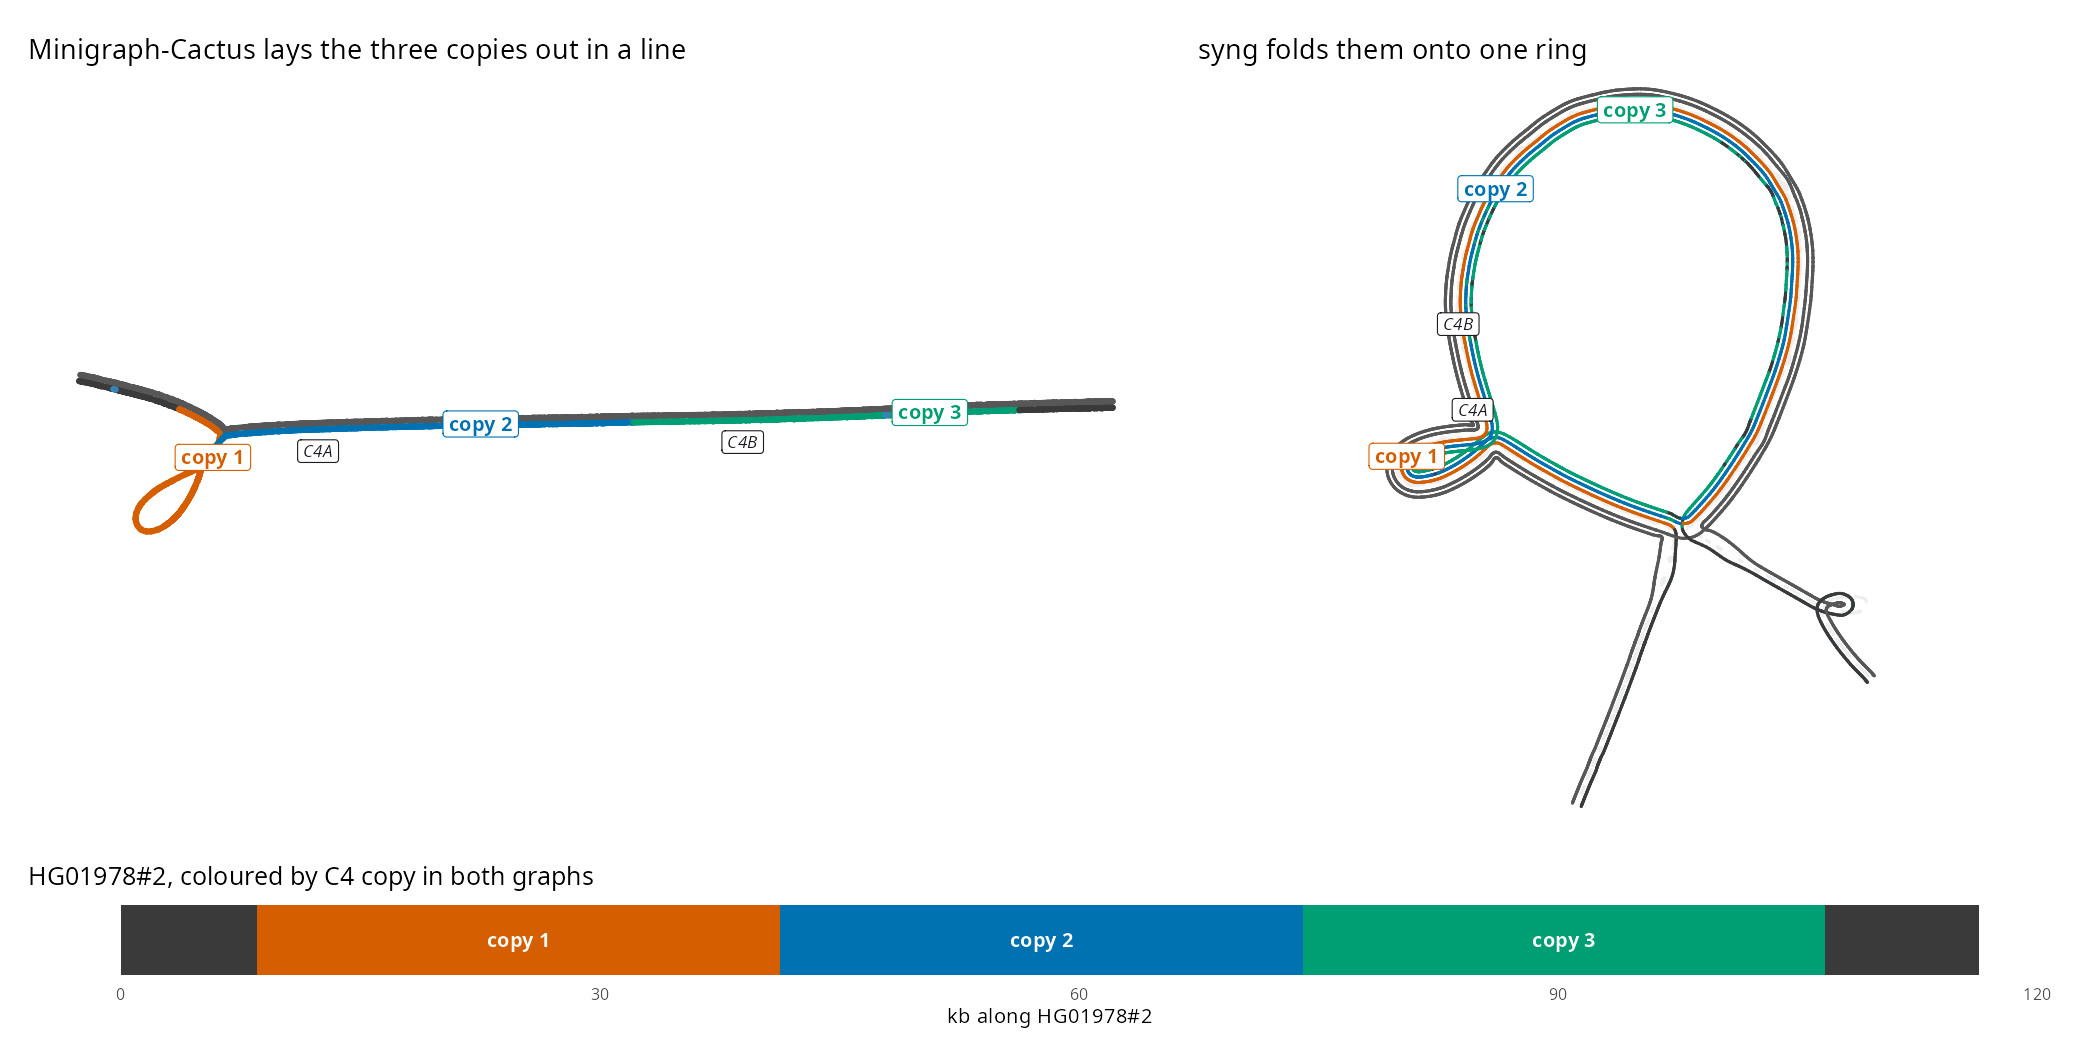
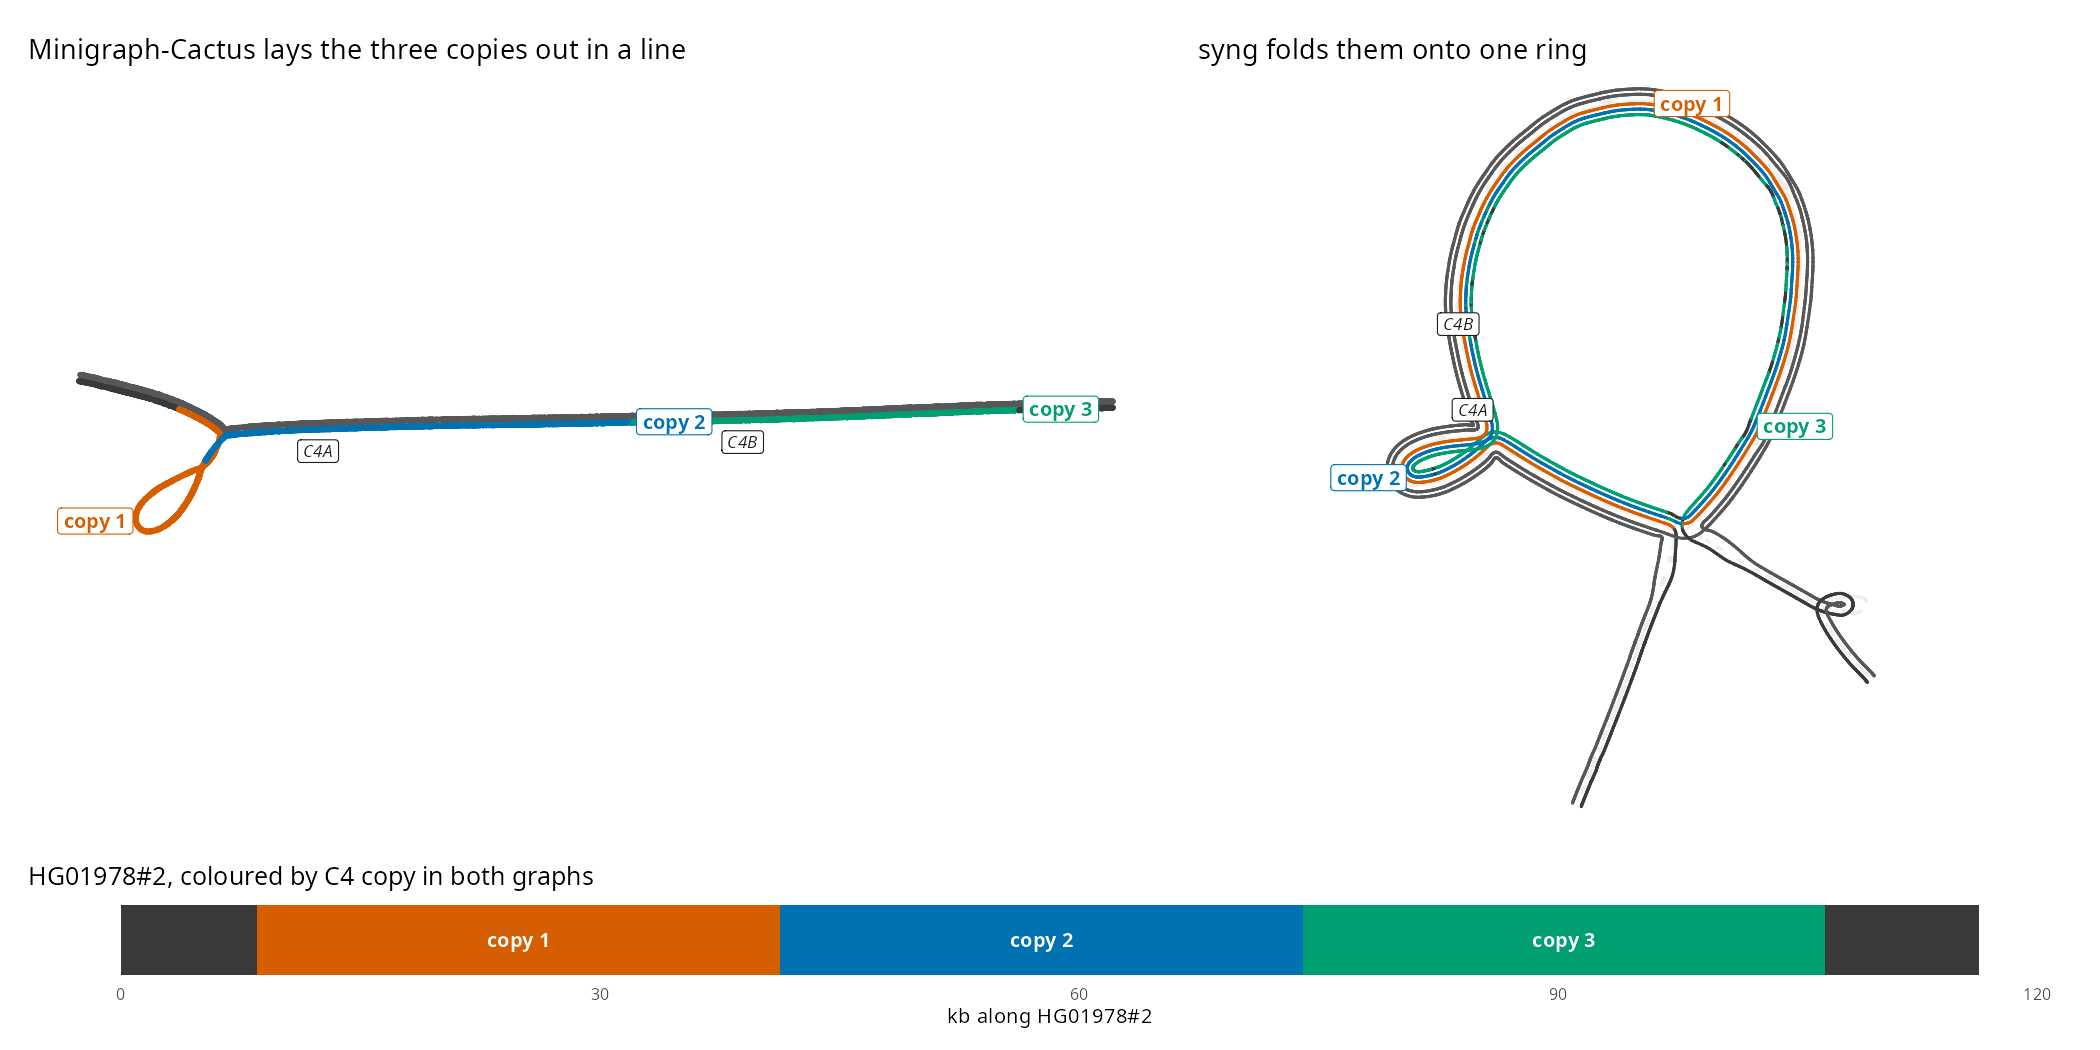
Colour C4's links by copy and label copy 1 beside its loop, and say KIV-2 loops are not copies
The C4 snippet repainted HG01978#2's nodes by copy but left its links in the
walk's own blue, so two links with visible length drew blue dots on the
left flank and on copy 3. Each link now takes the colour of the node it
leaves. The copy labels sat at a quarter, half and three quarters of each
copy's nodes, which put "copy 1" on the loop's neck over the start of copy 2;
they now go at the node farthest from the middle, then farthest from the
labels already placed, beside the node rather than over it.

kiv2_overlay is titled as loops off GRCh38, and its text says only HG00133
of the three walks shown runs the long loop, that Minigraph-Cactus stores
extra copies as new sequence, so an expansion is read from loop length and
the rows rather than the number of loops, and that loops are not to scale.

diff --git a/README.md b/README.md
@@ -83,7 +83,7 @@ kinds of index, exporting a region as GFA, and building a region's syng graph.
 <!-- gallery -->
 <table>
 <tr><td width="25%"><a href="docs/gallery.md#cfhr3-and-cfhr1-deleted-in-one-haplotype"><img src="gallery/cfh_overlay.png" alt="Force-directed CFH locus with GRCh38, HG00097 and HG02055 lifted together, each shaded along its own length: GRCh38 grey, HG00097 cyan to blue and HG02055 pink to plum. GRCh38 and HG00097 run the loop through CFHR3 and CFHR1, and HG02055 alone takes the edge under it that skips both genes, its lane drawn along the edge. Walk rows below, each on its walk's ramp, give the lengths, GRCh38 and HG00097 260 kb and HG02055 175 kb, and the ribbons from HG00097 down to HG02055 break across the 85 kb HG02055 lacks" width="100%"></a><br>CFHR3 and CFHR1 deleted in one haplotype</td><td width="25%"><a href="docs/gallery.md#kiv-2-copy-number-as-walk-rows"><img src="gallery/kiv2_rows.png" alt="Walk rows at KIV-2 on a bp-from-flank axis: between the flanking reference nodes GRCh38 spans 31 kb and HG00133#2 164 kb, and the extra copies, on non-reference nodes, fall into three blocks: A, 68 kb walked by HG02055#1 and HG00133#2; B, 22 kb walked by four haplotypes; and C, 5.5 kb walked by two" width="100%"></a><br>KIV-2 copy number as walk rows</td><td width="25%"><a href="docs/gallery.md#amylase-haplotypes-from-146-to-474-kb"><img src="gallery/amylase_rows.png" alt="Walk rows over the salivary amylase genes for GRCh38 and seven haplotypes, each bar coloured by the GRCh38 position it covers: against GRCh38's 240 kb the haplotypes span 146 kb to 474 kb. HG00128#1 and HG002#1 walk the non-reference block A twice, CHM13 and HG00097#2 once, HG00099#1 and HG00097#1 walk block C in its place, and 19 kb of HG00097#1 is left out of the graph, drawn as an open box" width="100%"></a><br>Amylase haplotypes from 146 to 474 kb</td><td width="25%"><a href="docs/gallery.md#cyp2d6-deletion-as-an-arch-over-the-gene"><img src="gallery/cyp2d6_stress.png" alt="Stress layout of CYP2D6 from the hosted index, GRCh38 drawn straight and coloured by position from NDUFA6-DT to CYP2D7, exons outlined in gold: a dashed arch spans CYP2D6, the route of haplotypes that skip the gene, and non-reference sequence hangs in charcoal loops above and below" width="100%"></a><br>CYP2D6 deletion as an arch over the gene</td></tr>
-<tr><td width="25%"><a href="docs/gallery.md#kiv-2-expansions-as-extra-loops"><img src="gallery/kiv2_overlay.png" alt="Force-directed KIV-2 array with GRCh38, HG00133 and HG00097 lifted together, each shaded along its own length from light to mid-tone: GRCh38 grey, HG00133 cyan to blue and HG00097 yellow to red-orange. GRCh38 runs straight from left to right, and where walks share nodes their lanes run side by side. HG00133 and HG00097 share one narrow loop near the right, with a boxed letter A at its tip, the nodes of block A. HG00133 alone runs one long loop of its own sequence at the right and a small loop near the left. Walk rows below, each on its walk's ramp under a grey strip where it runs on the GRCh38 path, give the lengths: GRCh38 31 kb, HG00133 164 kb and HG00097 53 kb, with block A outlined in both" width="100%"></a><br>KIV-2 expansions as extra loops</td><td width="25%"><a href="docs/gallery.md#rhd-deletion-and-duplication-in-an-impg-syng-graph"><img src="gallery/syng_rhd.png" alt="Force-directed syng graph of RHD with RHD, TMEM50A and RHCE labelled and three walks lifted: grch38 in dark grey, HG01258#2 in purple, and HG01106#1 coloured by its pass through each node, orange the first time, blue the second and green the third. Round the loop at the top, labelled RHD, run a grey grch38 thread, an orange first-pass thread and a blue second-pass thread, HG01106#1's second RHD, labelled second pass where the loop meets the threads to RHCE. A short green thread at the far left, where the walks come in, is labelled third pass. HG01258#2 skips the RHD loop and runs down past TMEM50A and round to RHCE. A strip below shows HG01106#1 along its length by pass, orange with a blue stretch and a short green one, and walk rows give grch38 202 kb, HG01106#1 272 kb and HG01258#2 132 kb" width="100%"></a><br>RHD deletion and duplication in an impg syng graph</td><td width="25%"><a href="docs/gallery.md#c4-in-two-graph-builders-the-same-haplotype-in-each"><img src="gallery/c4_two_graphs.png" alt="Two graphs over one strip. The strip shows HG01978#2 along its length in three solid colours, copy 1 orange, copy 2 blue and copy 3 green, between dark grey flanks. Left, titled Minigraph-Cactus lays the three copies out in a line, the HPRC walk file's C4 with GRCh38 in grey: copy 1 is an orange loop off GRCh38's path at the lower left, copy 2 runs blue along GRCh38's line past C4A, and copy 3 runs green on along it past C4B to the right. Right, titled syng folds them onto one ring, the impg syng graph: orange, blue and green threads run side by side round one ring that also carries the C4A and C4B labels, each thread labelled with its copy" width="100%"></a><br>C4 in two graph builders, the same haplotype in each</td><td width="25%"><a href="docs/gallery.md#core-shell-and-cloud-at-gstm1"><img src="gallery/gstm1_core.png" alt="The GSTM1 locus cut from the walk file with all HPRC haplotypes, force-directed, each node coloured by the share of haplotypes through it: core, 95% or more, charcoal; shell, 5 to 95%, blue; cloud, under 5%, orange. A pale green band under the nodes marks GRCh38's path, from GSTM4 and GSTM2 round the GSTM1 loop to GSTM5. GSTM4, GSTM2 and GSTM5 run as thick charcoal strands flecked with orange specks of rare variants. GSTM1's loop, labelled 16%, and the non-reference loop beside it, labelled 19%, are blue shell, and a small orange loop hangs off the second. The grey dashed edge past both loops, off the green band, is labelled 66%. The caption says the percentages are shares of HPRC haplotypes and that a dashed edge skips part of GRCh38's path, and a bar below splits the graph's bp into 43% core, 34 kb, 47% shell, 37 kb, and 9% cloud, 7 kb" width="100%"></a><br>Core, shell and cloud at GSTM1</td></tr>
+<tr><td width="25%"><a href="docs/gallery.md#kiv-2-expansions-as-loops-off-grch38"><img src="gallery/kiv2_overlay.png" alt="Force-directed KIV-2 array with GRCh38, HG00133 and HG00097 lifted together, each shaded along its own length from light to mid-tone: GRCh38 grey, HG00133 cyan to blue and HG00097 yellow to red-orange. GRCh38 runs straight from left to right, and where walks share nodes their lanes run side by side. HG00133 and HG00097 share one narrow loop near the right, with a boxed letter A at its tip, the nodes of block A. Of the three walks shown, only HG00133 runs the long loop at the right and the small loop near the left, sequence GRCh38 and HG00097 lack. Minigraph-Cactus stores copies beyond GRCh38's as new sequence rather than as extra turns round one copy, so the expansion shows in the loops' length and in the rows below, not in the number of loops. Walk rows below, each on its walk's ramp under a grey strip where it runs on the GRCh38 path, give the lengths: GRCh38 31 kb, HG00133 164 kb and HG00097 53 kb, with block A outlined in both" width="100%"></a><br>KIV-2 expansions as loops off GRCh38</td><td width="25%"><a href="docs/gallery.md#rhd-deletion-and-duplication-in-an-impg-syng-graph"><img src="gallery/syng_rhd.png" alt="Force-directed syng graph of RHD with RHD, TMEM50A and RHCE labelled and three walks lifted: grch38 in dark grey, HG01258#2 in purple, and HG01106#1 coloured by its pass through each node, orange the first time, blue the second and green the third. Round the loop at the top, labelled RHD, run a grey grch38 thread, an orange first-pass thread and a blue second-pass thread, HG01106#1's second RHD, labelled second pass where the loop meets the threads to RHCE. A short green thread at the far left, where the walks come in, is labelled third pass. HG01258#2 skips the RHD loop and runs down past TMEM50A and round to RHCE. A strip below shows HG01106#1 along its length by pass, orange with a blue stretch and a short green one, and walk rows give grch38 202 kb, HG01106#1 272 kb and HG01258#2 132 kb" width="100%"></a><br>RHD deletion and duplication in an impg syng graph</td><td width="25%"><a href="docs/gallery.md#c4-in-two-graph-builders-the-same-haplotype-in-each"><img src="gallery/c4_two_graphs.png" alt="Two graphs over one strip. The strip shows HG01978#2 along its length in three solid colours, copy 1 orange, copy 2 blue and copy 3 green, between dark grey flanks. Left, titled Minigraph-Cactus lays the three copies out in a line, the HPRC walk file's C4 with GRCh38 in grey: copy 1 is an orange loop off GRCh38's path at the lower left, labelled beside its tip, whose last stretch back to GRCh38's line is blue, the start of copy 2; copy 2 then runs blue along GRCh38's line past C4A, and copy 3 runs green on along it past C4B to the right. Right, titled syng folds them onto one ring, the impg syng graph: orange, blue and green threads run side by side round one ring that also carries the C4A and C4B labels, each thread labelled with its copy" width="100%"></a><br>C4 in two graph builders, the same haplotype in each</td><td width="25%"><a href="docs/gallery.md#core-shell-and-cloud-at-gstm1"><img src="gallery/gstm1_core.png" alt="The GSTM1 locus cut from the walk file with all HPRC haplotypes, force-directed, each node coloured by the share of haplotypes through it: core, 95% or more, charcoal; shell, 5 to 95%, blue; cloud, under 5%, orange. A pale green band under the nodes marks GRCh38's path, from GSTM4 and GSTM2 round the GSTM1 loop to GSTM5. GSTM4, GSTM2 and GSTM5 run as thick charcoal strands flecked with orange specks of rare variants. GSTM1's loop, labelled 16%, and the non-reference loop beside it, labelled 19%, are blue shell, and a small orange loop hangs off the second. The grey dashed edge past both loops, off the green band, is labelled 66%. The caption says the percentages are shares of HPRC haplotypes and that a dashed edge skips part of GRCh38's path, and a bar below splits the graph's bp into 43% core, 34 kb, 47% shell, 37 kb, and 9% cloud, 7 kb" width="100%"></a><br>Core, shell and cloud at GSTM1</td></tr>
 </table>
 <!-- /gallery -->
 

diff --git a/docs/gallery.md b/docs/gallery.md
@@ -91,7 +91,7 @@ g <- bandage_layout(index, region = "chr22:42,118,000-42,136,000", engine = "str
 autoplot(g)
 ```
 
-## KIV-2 expansions as extra loops
+## KIV-2 expansions as loops off GRCh38
 
 `chr6:160,616,004-160,646,753`
 
@@ -101,10 +101,13 @@ autoplot(g)
   `bandage_walk_steps()`
 - `context = 30000` keeps 30 kb of GRCh38 past each end of the region, so the
   reference runs in straight before it reaches the array
-- Loop size follows bp, so HG00133's own sequence draws as the long loop at
-  the right
+- Minigraph-Cactus stores copies beyond GRCh38's as new sequence rather than as
+  extra turns round one copy, so read an expansion from a loop's length and the
+  rows below, not from the number of loops
+- A loop is longer where the walk carries more sequence, but not to scale with
+  GRCh38's line, so read lengths off the rows
 
-![Force-directed KIV-2 array with GRCh38, HG00133 and HG00097 lifted together, each shaded along its own length from light to mid-tone: GRCh38 grey, HG00133 cyan to blue and HG00097 yellow to red-orange. GRCh38 runs straight from left to right, and where walks share nodes their lanes run side by side. HG00133 and HG00097 share one narrow loop near the right, with a boxed letter A at its tip, the nodes of block A. HG00133 alone runs one long loop of its own sequence at the right and a small loop near the left. Walk rows below, each on its walk's ramp under a grey strip where it runs on the GRCh38 path, give the lengths: GRCh38 31 kb, HG00133 164 kb and HG00097 53 kb, with block A outlined in both](../gallery/kiv2_overlay.png)
+![Force-directed KIV-2 array with GRCh38, HG00133 and HG00097 lifted together, each shaded along its own length from light to mid-tone: GRCh38 grey, HG00133 cyan to blue and HG00097 yellow to red-orange. GRCh38 runs straight from left to right, and where walks share nodes their lanes run side by side. HG00133 and HG00097 share one narrow loop near the right, with a boxed letter A at its tip, the nodes of block A. Of the three walks shown, only HG00133 runs the long loop at the right and the small loop near the left, sequence GRCh38 and HG00097 lack. Minigraph-Cactus stores copies beyond GRCh38's as new sequence rather than as extra turns round one copy, so the expansion shows in the loops' length and in the rows below, not in the number of loops. Walk rows below, each on its walk's ramp under a grey strip where it runs on the GRCh38 path, give the lengths: GRCh38 31 kb, HG00133 164 kb and HG00097 53 kb, with block A outlined in both](../gallery/kiv2_overlay.png)
 
 ```r
 library(ggbandage)
@@ -207,15 +210,19 @@ autoplot(g) + guides(bandage_keys = "none") +
   and in the strip below
 - `bandage_walk_steps()` gives each step's bp along its walk and its pass, which
   joins the step to the layout's thread for that pass
-- In the Minigraph-Cactus graph, copy 1 is a loop off GRCh38's path, copy 2
-  starts at GRCh38's C4A and copy 3 at its C4B. In the syng graph, all three are
-  passes round the ring, which GRCh38 runs twice
+- In the Minigraph-Cactus graph, copy 1 is a loop off GRCh38's path, and the
+  loop's last stretch is the start of copy 2, which runs on along GRCh38's line.
+  In the syng graph, all three are passes round the ring, which GRCh38 runs twice
+- The snippet colours the walk's links as well as its nodes, each link by the
+  node it leaves. It labels copy 1 at its node farthest from the middle of the
+  drawing, and each later copy at its node farthest from the labels already
+  placed, each label beside its node on the side away from the middle
 - The Minigraph-Cactus cut keeps about 1 kb of flank past each end, so the
   snippet centres that walk on the syng walk before matching bp
 - The snippet turns off each graph's key, since side by side each key would
   run into the other column
 
-![Two graphs over one strip. The strip shows HG01978#2 along its length in three solid colours, copy 1 orange, copy 2 blue and copy 3 green, between dark grey flanks. Left, titled Minigraph-Cactus lays the three copies out in a line, the HPRC walk file's C4 with GRCh38 in grey: copy 1 is an orange loop off GRCh38's path at the lower left, copy 2 runs blue along GRCh38's line past C4A, and copy 3 runs green on along it past C4B to the right. Right, titled syng folds them onto one ring, the impg syng graph: orange, blue and green threads run side by side round one ring that also carries the C4A and C4B labels, each thread labelled with its copy](../gallery/c4_two_graphs.png)
+![Two graphs over one strip. The strip shows HG01978#2 along its length in three solid colours, copy 1 orange, copy 2 blue and copy 3 green, between dark grey flanks. Left, titled Minigraph-Cactus lays the three copies out in a line, the HPRC walk file's C4 with GRCh38 in grey: copy 1 is an orange loop off GRCh38's path at the lower left, labelled beside its tip, whose last stretch back to GRCh38's line is blue, the start of copy 2; copy 2 then runs blue along GRCh38's line past C4A, and copy 3 runs green on along it past C4B to the right. Right, titled syng folds them onto one ring, the impg syng graph: orange, blue and green threads run side by side round one ring that also carries the C4A and C4B labels, each thread labelled with its copy](../gallery/c4_two_graphs.png)
 
 ```r
 library(ggbandage)
@@ -244,16 +251,21 @@ painted <- function(g, steps, title) {
   mine <- g$nodes$walk %in% 1
   at <- match(paste(g$nodes$name, pmax(0, g$nodes$pass, na.rm = TRUE)), paste(steps$node, steps$pass))
   g$nodes$copy <- ifelse(mine, steps$copy[at], NA)
-  g$nodes$start <- steps$start[at]
   g$nodes$color[mine] <- ifelse(is.na(g$nodes$copy[mine]), "#3a3a3a", copies[g$nodes$copy[mine]])
+  lane <- g$edges$walk %in% 1
+  leaves <- match(paste(g$edges$x0, g$edges$y0), paste(g$nodes$x, g$nodes$y)[mine])
+  g$edges$color[lane] <- ave(g$nodes$color[mine][leaves][lane], g$edges$edge[lane], g$edges$pass[lane], FUN = function(c) c[!is.na(c)][1])
   g$genes <- g$genes[g$genes$gene %in% c("C4A", "C4B"), ]
   g$exons <- g$exons[0, ]
-  spots <- do.call(rbind, lapply(seq_along(copies), function(k) {
-    own <- g$nodes[g$nodes$copy %in% names(copies)[k], ]
-    own[which.min(abs(own$start - stats::quantile(own$start, k / 4))), ]
-  }))
+  own <- g$nodes[g$nodes$copy %in% names(copies), ]
+  spot <- function(x, y) (own$x - x)^2 + (own$y - y)^2
+  spots <- own[which.max(ifelse(own$copy == "copy 1", spot(stats::median(g$nodes$x), stats::median(g$nodes$y)), -Inf)), ]
+  for (copy in names(copies)[-1]) {
+    gap <- ifelse(own$copy == copy, Reduce(pmin, Map(spot, spots$x, spots$y)), -Inf)
+    spots <- rbind(spots, own[which.max(gap), ])
+  }
   autoplot(g) + guides(bandage_keys = "none") + ggtitle(title) +
-    geom_label(aes(x, y, label = copy, colour = I(copies[copy])), data = spots, size = 3.4, fontface = "bold", fill = "white")
+    geom_label(aes(x, y, label = copy, colour = I(copies[copy]), hjust = ifelse(x < stats::median(g$nodes$x), 1.05, -0.05)), data = spots, size = 3.4, fontface = "bold", fill = "white")
 }
 along <- ggplot(data.frame(copy = names(copies), start = breaks[1:3], end = breaks[2:4])) +
   annotate("rect", xmin = 0, xmax = max(sy_steps$end) / 1000, ymin = 0, ymax = 1, fill = "#3a3a3a") +
